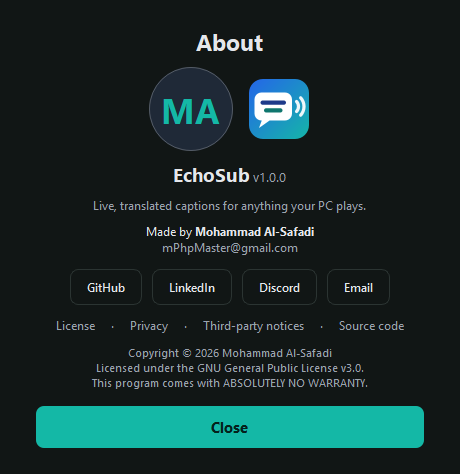
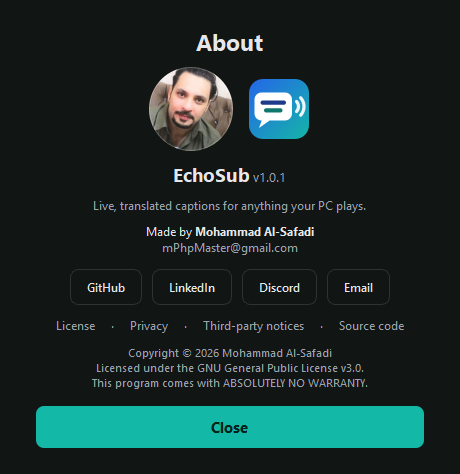
EchoSub 1.0.1: author photo, system requirements
- Show the author's photo in the About window.
- Add minimum and recommended system requirements to the README and user
  guide, with per-model download size, estimated graphics memory and
  measured speed.
- Correct the default model download size to about 2.3 GB.

Changed region(s): [[0.3043, 0.1477, 0.5174, 0.3249], [0.6087, 0.3544, 0.6391, 0.384]]

diff --git a/echosub/__init__.py b/echosub/__init__.py
@@ -4,7 +4,7 @@
 
 APP_NAME = "EchoSub"
 APP_ID = "EchoSub"
-__version__ = "1.0.0"
+__version__ = "1.0.1"
 
 DESCRIPTION = "Live, translated captions for anything your PC plays."
 LONG_DESCRIPTION = (

diff --git a/README.md b/README.md
@@ -73,23 +73,50 @@ Everything runs locally: speech recognition and translation happen on your own m
 |---|---|---|
 | <img src="docs/screenshots/history.png" alt="Caption history window" width="300"> | <img src="docs/screenshots/download.png" alt="Model download progress window with Cancel" width="300"> | <img src="docs/screenshots/about.png" alt="About window" width="220"> |
 
-## Requirements
+## System requirements
 
-| | Minimum | Recommended |
+|  | Minimum | Recommended |
 |---|---|---|
-| OS | Windows 10 (64-bit) | Windows 11 |
-| GPU | — (CPU works, but is slow) | NVIDIA GPU with 4 GB+ VRAM, recent driver |
-| RAM | 8 GB | 16 GB |
-| Disk | 5 GB free | 10 GB free |
-| Internet | Needed once, to download the AI models (~2.5 GB) | |
+| **Operating system** | Windows 10, 64-bit | Windows 11, 64-bit |
+| **Processor** | 64-bit, 4 cores (e.g. Intel Core i3-8100 / AMD Ryzen 3 2200G) | 6+ cores (e.g. Intel Core i5-9400F / AMD Ryzen 5 3600) |
+| **Memory (RAM)** | 8 GB | 16 GB |
+| **Graphics** | None required — runs on the CPU with the *Small* or *Base* speech model (captions lag several seconds) | NVIDIA GeForce GTX 1060 6 GB or better (GTX 10-series and newer); RTX cards are faster |
+| **Graphics memory** | 4 GB for the default models on an NVIDIA GPU | 6 GB or more (needed for *NLLB 1.3B* or *Large v3*) |
+| **NVIDIA driver** | 527.41 or newer (CUDA 12) | Latest Game Ready or Studio driver |
+| **Free disk space** | 6 GB (app 2.3 GB + default models 2.3 GB) | 10 GB on an SSD (room for all models) |
+| **Internet** | Once, to download the models (~2.3 GB) | Also needed if you use the Google Translate engine |
+| **Audio** | Any Windows playback device (speakers, headphones, virtual devices) | — |
+| **Display** | 1280 × 720 | 1920 × 1080 or higher |
 
-EchoSub picks the fastest settings for your GPU automatically (for example int8 on GTX 10-series cards, which have no fast float16).
+EchoSub picks the fastest precision for your GPU automatically (for example int8 on GTX 10-series cards, which have no fast float16).
+
+### Models
+
+Choose the models in *Settings → Language & Engine*. Download sizes are exact; graphics memory is an estimate for the loaded model; speeds were measured on an Intel Core i5-9400F with a GTX 1060 6 GB **while a game was using the GPU at 99%** — an idle GPU is faster.
+
+| Model | Download | Graphics memory (est.) | Time to caption a 9-second sentence |
+|---|---|---|---|
+| Speech — *Base* | 141 MB | ~0.3 GB | 1.3 s (GPU) |
+| Speech — *Small* | 464 MB | ~0.5 GB | 2.5 s (GPU) · 10.7 s (CPU) |
+| Speech — *Medium* | 1.5 GB | ~1.0 GB | 2.9 s (GPU) |
+| Speech — *Large v3 Turbo* (default) | 1.5 GB | ~1.2 GB | 2.2 s (GPU) · 64 s (CPU — not usable live) |
+| Speech — *Large v3* | 3.1 GB | ~2.0 GB | slower than Turbo |
+
+| Translation model | Download | Graphics memory (est.) | Time to translate a sentence |
+|---|---|---|---|
+| *NLLB 600M* (default) | 617 MB | ~0.8 GB | 0.22 s (GPU) · 1.4 s (CPU) |
+| *NLLB 1.3B* | 1.3 GB | ~1.6 GB | 0.47 s (GPU) |
+| *Google Translate* | — | — | depends on your connection |
+
+Also downloaded: the speaker detection model (27 MB, runs on the CPU) and, only if you turn on Arabic diacritics, the diacritics model (69 MB, CPU).
+
+**Default setup** (Large v3 Turbo + NLLB 600M + speaker detection): about 2.3 GB to download and about 2 GB of graphics memory.
 
 ## Install
 
 1. Download `EchoSub-Setup-<version>.exe` from the [Releases](https://github.com/mPhpMaster/echo-sub/releases) page.
 2. Run it and follow the steps (you can install for all users or just for you).
-3. Start EchoSub. The first start downloads the AI models (~2.5 GB) in a progress window that you can cancel at any time — the download resumes where it stopped next time. After that EchoSub works offline (unless you choose Google Translate).
+3. Start EchoSub. The first start downloads the AI models (~2.3 GB) in a progress window that you can cancel at any time — the download resumes where it stopped next time. After that EchoSub works offline (unless you choose Google Translate).
 
 Settings, models, logs and transcripts are kept in `%LOCALAPPDATA%\EchoSub`. The uninstaller asks whether to remove them.
 

diff --git a/docs/USER_GUIDE.md b/docs/USER_GUIDE.md
@@ -2,10 +2,14 @@
 
 ![EchoSub caption box](screenshots/captions-en-ar.png)
 
+## Before you install
+
+Check the [system requirements](../README.md#system-requirements): Windows 10/11 64-bit, 8 GB RAM, and ideally an NVIDIA GPU with 4 GB+ of graphics memory. Without an NVIDIA GPU, choose the *Small* speech model.
+
 ## First start
 
 1. Start EchoSub from the Start menu. Its icon appears in the system tray (next to the clock).
-2. The first start downloads the AI models (~2.5 GB). A window shows the progress, speed and time left; **Cancel** stops it and **Retry** continues where it stopped (nothing already downloaded is lost). Later starts take a few seconds.
+2. The first start downloads the AI models (~2.3 GB). A window shows the progress, speed and time left; **Cancel** stops it and **Retry** continues where it stopped (nothing already downloaded is lost). Later starts take a few seconds.
 3. Play anything with speech. Captions appear at the bottom of the screen and disappear when nobody is talking.
 
 The small dot on the tray icon shows the status: **blue** listening · **amber** loading or reconnecting audio · **grey** paused · **red** error (hover for details).

diff --git a/CHANGELOG.md b/CHANGELOG.md
@@ -3,6 +3,13 @@
 All notable changes to EchoSub are documented in this file.
 The format follows [Keep a Changelog](https://keepachangelog.com/en/1.1.0/) and the project uses [Semantic Versioning](https://semver.org/).
 
+## [1.0.1] — 2026-09-17
+
+### Added
+- The author's photo in the About window.
+- System requirements (minimum and recommended) and per-model download size, graphics memory and speed in the README and user guide.
+- Screenshots in the README and user guide.
+
 ## [1.0.0] — 2026-09-17
 
 First public release.
@@ -35,4 +42,5 @@ First public release.
 - `--self-test [file.wav]` checks the GPU, models and pipeline without opening a window.
 - Windows installer (Inno Setup) and PowerShell build scripts.
 
+[1.0.1]: https://github.com/mPhpMaster/echo-sub/releases/tag/v1.0.1
 [1.0.0]: https://github.com/mPhpMaster/echo-sub/releases/tag/v1.0.0
